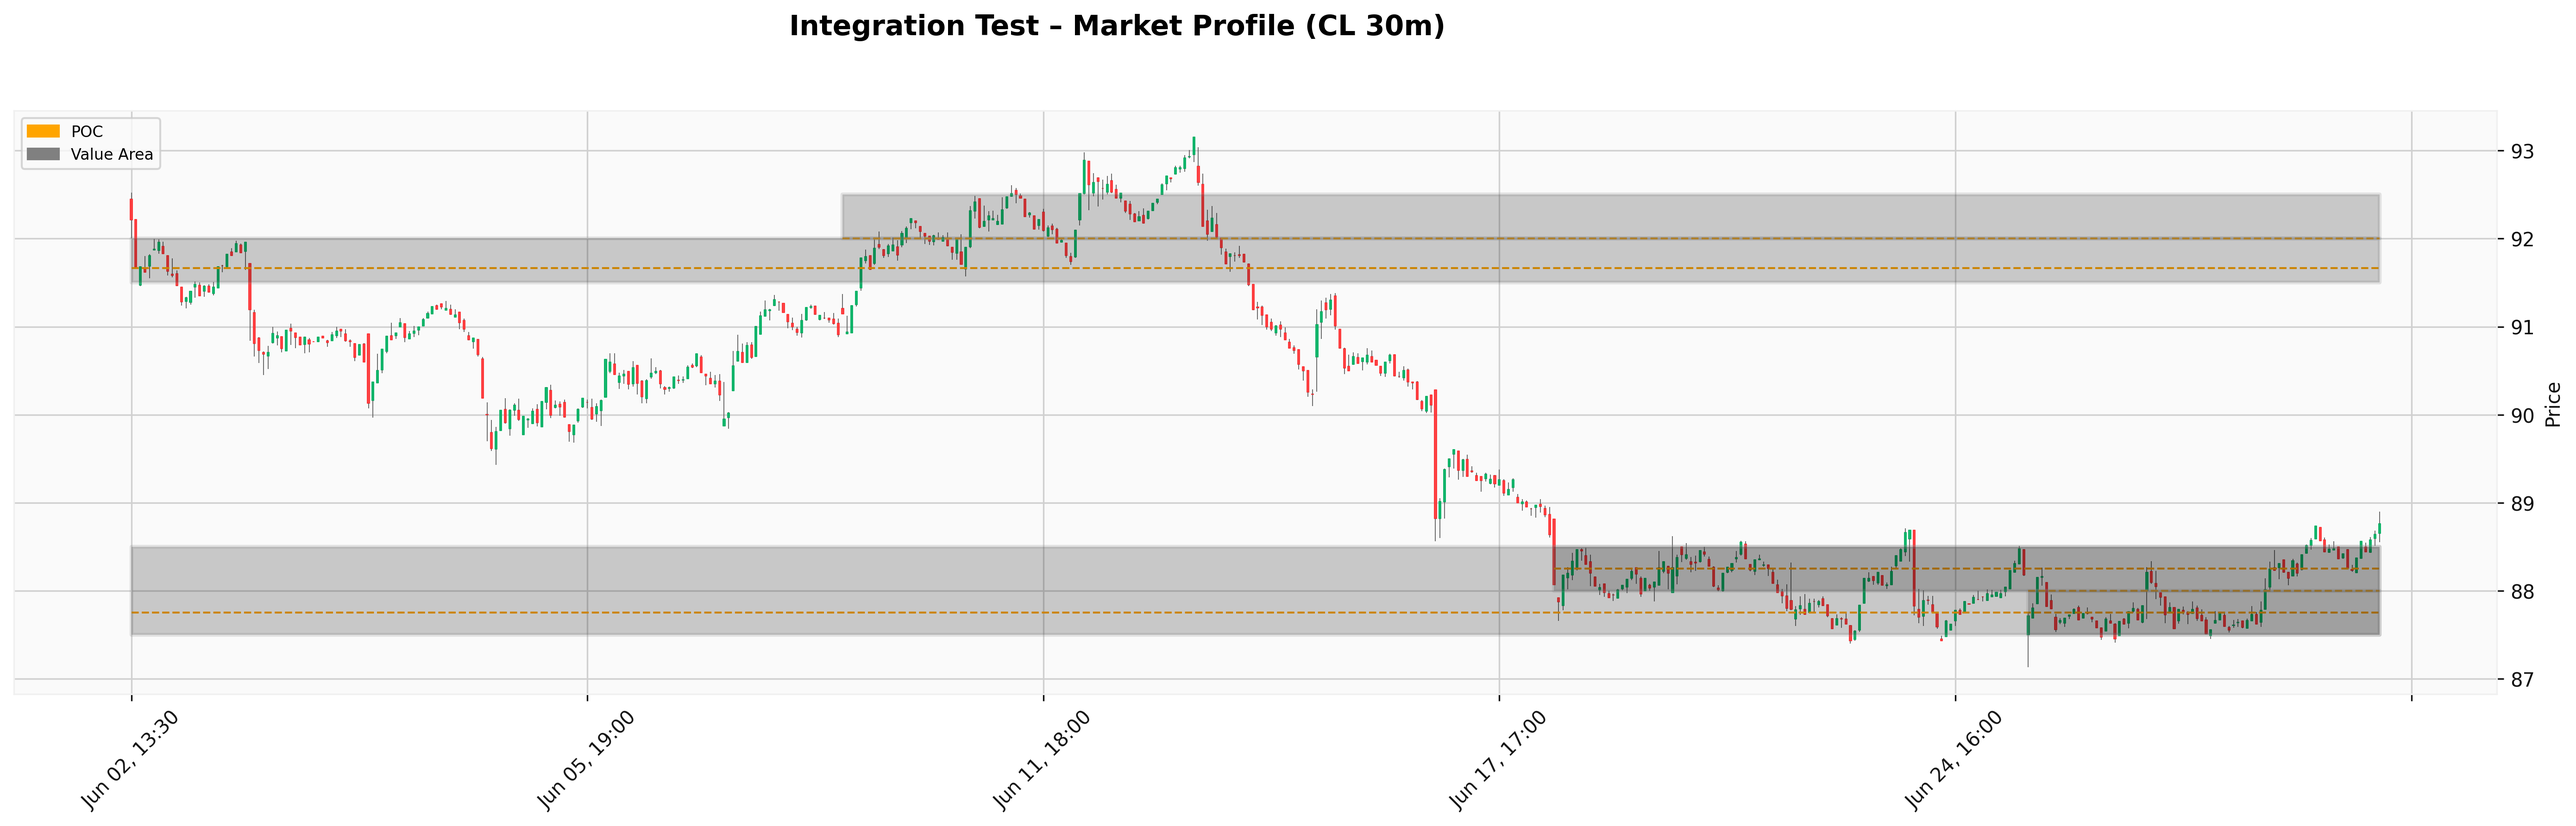
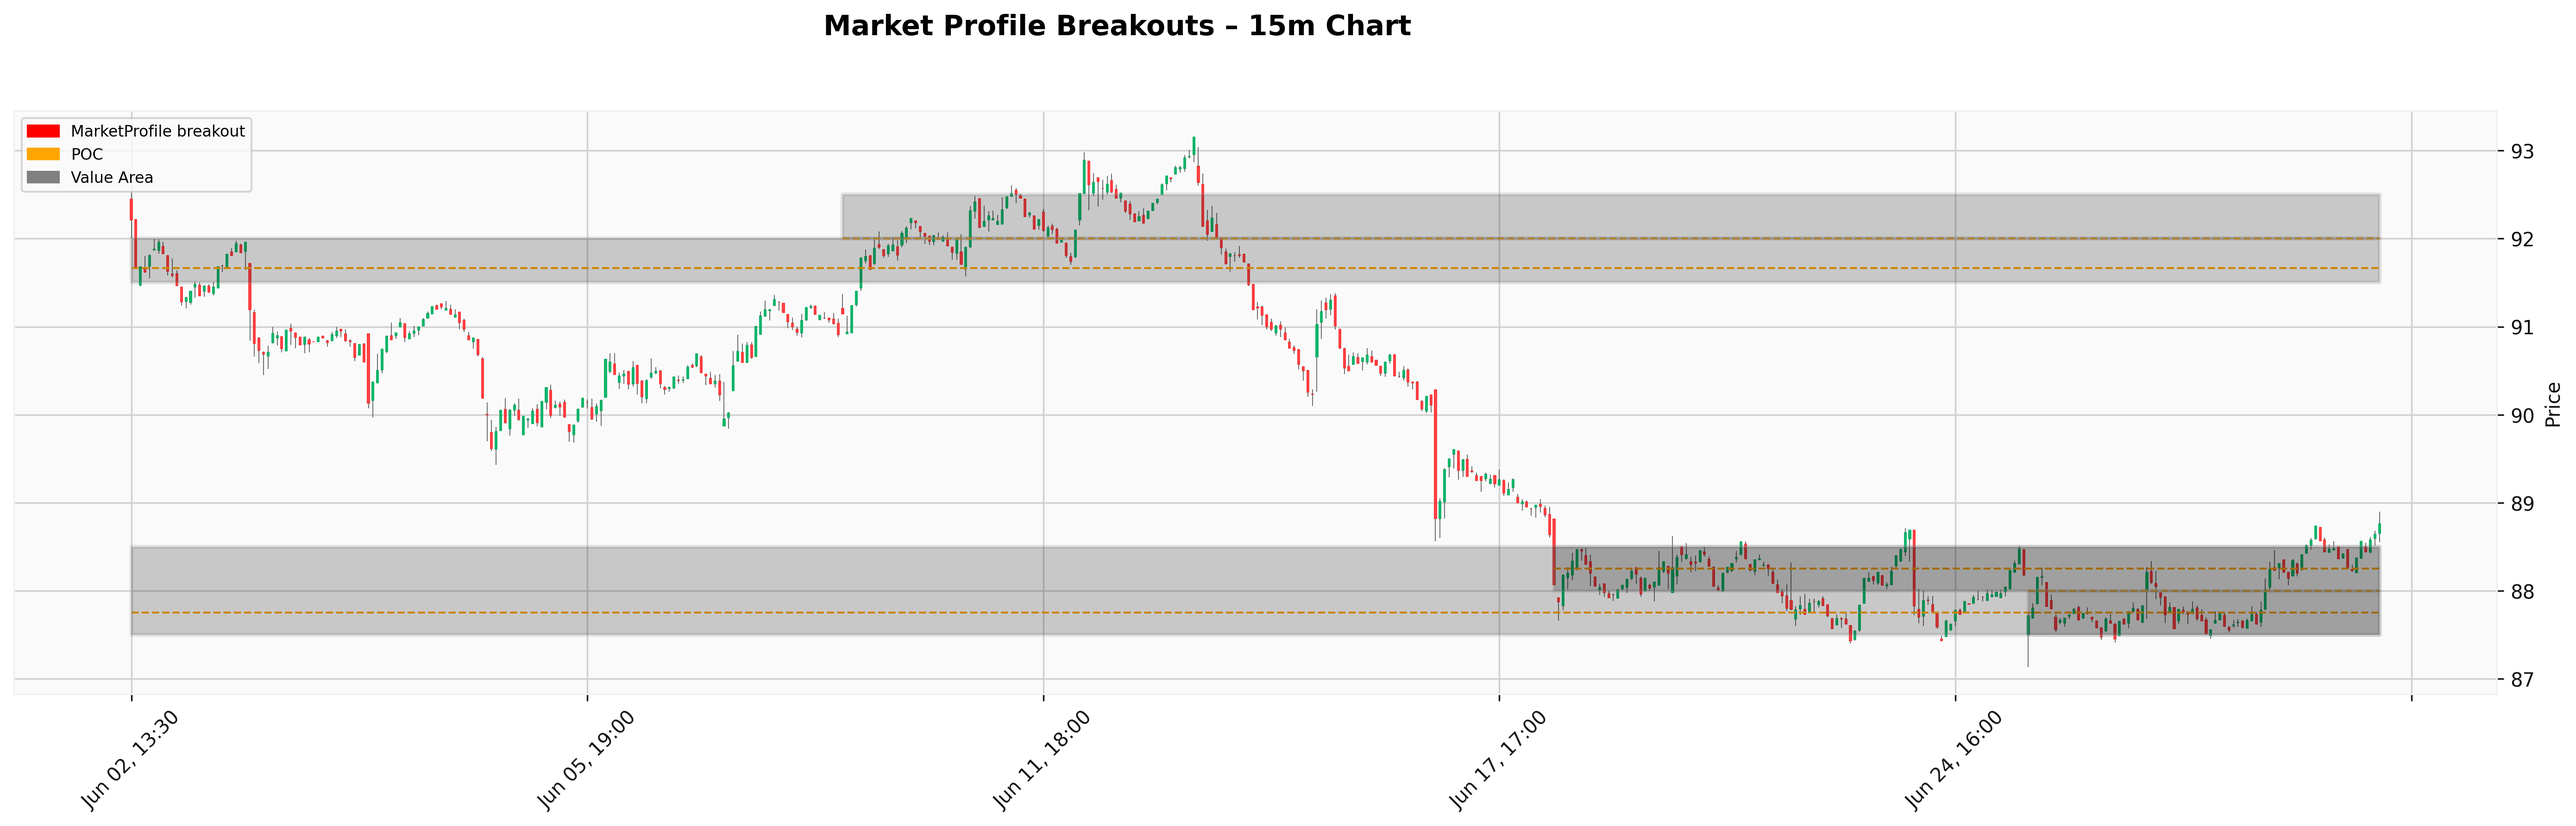
fixed plotting large gaps in price; NaN values in the plotting array

Changed region(s): [[0.311, 0.0, 0.5599, 0.0617], [0.0, 0.1541, 0.0933, 0.2466]]

diff --git a/classes/signals/market_profile_signal.py b/classes/signals/market_profile_signal.py
@@ -1,0 +1,135 @@
+# signals/market_profile_signal.py
+
+from typing import List, Dict
+import pandas as pd
+from datetime import datetime
+from .base import BaseSignal
+import logging
+
+logger = logging.getLogger("MarketProfileSignalGenerator")
+
+
+class MarketProfileSignalGenerator:
+    def __init__(self, symbol: str):
+        self.symbol = symbol
+
+    def generate_signals(
+        self,
+        price_df: pd.DataFrame,
+        value_areas: List[Dict]
+    ) -> List[BaseSignal]:
+        signals = []
+
+        for area in value_areas:
+            start, end = area["start"], area["end"]
+            VAL, VAH = area["VAL"], area["VAH"]
+
+            # Filter price data for the session window
+            session_df = price_df[(price_df.index >= start) & (price_df.index <= end)]
+
+            # Loop over the session candles
+            for i in range(1, len(session_df)):
+                prev_close = session_df.iloc[i - 1]["close"]
+                curr_close = session_df.iloc[i]["close"]
+                curr_time = session_df.index[i]
+
+                # Skip if previous candle was already outside VA
+                if not (VAL <= prev_close <= VAH):
+                    continue
+
+                # Breakout above VAH
+                if curr_close > VAH:
+                    distance_pct = (curr_close - VAH) / VAH
+                    signals.append(BaseSignal(
+                        type="breakout",
+                        symbol=self.symbol,
+                        time=curr_time,
+                        confidence=1.0,  # can improve this later
+                        metadata={
+                            "source": "MarketProfile",
+                            "level_type": "VAH",
+                            "distance_pct": round(distance_pct, 4),
+                            "session_start": start,
+                            "session_end": end,
+                            "VAL": VAL,
+                            "VAH": VAH,
+                            "POC": area.get("POC")
+                        }
+                    ))
+                    break  # only first breakout per session
+
+                # Breakout below VAL
+                elif curr_close < VAL:
+                    distance_pct = (VAL - curr_close) / VAL
+                    signals.append(BaseSignal(
+                        type="breakout",
+                        symbol=self.symbol,
+                        time=curr_time,
+                        confidence=1.0,
+                        metadata={
+                            "source": "MarketProfile",
+                            "level_type": "VAL",  # or "VAL"
+                            "distance_pct": round(distance_pct, 4),
+                            "session_start": start,
+                            "session_end": end,
+                            "VAL": VAL,
+                            "VAH": VAH,
+                            "POC": area.get("POC") 
+                        }
+                    ))
+
+                    break
+
+        return signals
+
+    @staticmethod
+    def to_overlays(signals: List["BaseSignal"], plot_df: pd.DataFrame, marker_size: int = 60) -> List[Dict]:
+        overlays = []
+        logger.info("Converting %d signals to overlays", len(signals))
+
+        for idx, sig in enumerate(signals):
+            if sig.metadata.get("source") != "MarketProfile":
+                logger.debug("Signal %d skipped: source=%s", idx, sig.metadata.get("source"))
+                continue
+
+            ts = sig.time
+            if ts not in plot_df.index:
+                nearest_idx = plot_df.index.get_indexer([ts], method="nearest")[0]
+                ts = plot_df.index[nearest_idx]
+                logger.debug("Signal %d: timestamp %s not in plot_df, using nearest %s", idx, sig.time, ts)
+
+            level_type = sig.metadata.get("level_type")
+            if level_type == "VAH":
+                y = sig.metadata.get("VAH")
+                marker = "v"
+                color = "green"
+            elif level_type == "VAL":
+                y = sig.metadata.get("VAL")
+                marker = "^"
+                color = "red"
+            else:
+                logger.warning("Signal %d: unknown level_type %s", idx, level_type)
+                continue
+
+
+            logger.debug(
+                "Signal %d: time=%s, y=%s, marker=%s, color=%s, label=%s",
+                idx, ts, y, marker, color, "MarketProfile breakout"
+            )
+            if y is None:
+                logger.warning("Signal %d: y-value is None for time=%s, level_type=%s", idx, ts, level_type)
+
+            overlays.append({
+                "x": [ts],
+                "y": [y],
+                "marker": marker,
+                "markersize": marker_size,
+                "color": color,
+                "label": "MarketProfile breakout",
+                "kind": "scatter",
+                "scatter": True,
+                "zorder": 5,
+            })
+
+        logger.info("Generated %d overlays from signals", len(overlays))
+        return overlays

diff --git a/main.py b/main.py
@@ -11,27 +11,30 @@ from classes.indicators.TrendlineIndicator import TrendlineIndicator
 from data_providers.alpaca_provider import AlpacaProvider
 from classes.indicators.config import DataContext
 
+from classes.signals.market_profile_signal import MarketProfileSignalGenerator
 
-symbol = "CL"
+symbol = "GC=F"
 provider = AlpacaProvider()
 
 lower_timespan_ctx = DataContext(
-    symbol="CL",
+    symbol=symbol,
     start="2025-06-01",
-    end="2025-06-30",
+    end="2025-07-13",
     interval="15m"
 )
 
 higher_timespan_ctx = DataContext(
-    symbol="CL",
+    symbol=symbol,
     start="2025-05-10",
     end="2025-07-12",
     interval="30m"
 )
 
-def get_overlays(plot_df: pd.DataFrame):
+
+def get_overlays_and_value_areas(plot_df: pd.DataFrame):
     logger.info("Creating MarketProfileIndicator with higher timeframe context: %s %s-%s (%s)", 
                 higher_timespan_ctx.symbol, higher_timespan_ctx.start, higher_timespan_ctx.end, higher_timespan_ctx.interval)
+    
     mpi = MarketProfileIndicator.from_context(
         provider=provider,
         ctx=higher_timespan_ctx,
@@ -39,14 +42,28 @@ def get_overlays(plot_df: pd.DataFrame):
         mode="tpo",
         interval="30m"
     )
+    
     logger.info("Merging value areas for MarketProfileIndicator")
     merged = mpi.merge_value_areas()
     logger.debug("Merged value areas count: %d", len(merged))
 
+    # Prepare value area schema for signal generator
+    value_areas = []
+    for va in merged:
+        value_areas.append({
+            "start": va["start_date"],
+            "end": va["end_date"],
+            "VAL": va["VAL"],
+            "VAH": va["VAH"],
+            "POC": va["POC"]
+        })
+
     overlays, legend_keys = mpi.to_overlays(plot_df, use_merged=True)
     logger.info("Generated overlays: %d, legend entries: %d", len(overlays), len(legend_keys))
     logger.debug("Overlay kinds: %s", [overlay.get("kind", "addplot") for overlay in overlays])
-    return overlays, legend_keys
+
+    return overlays, legend_keys, value_areas
+
 
 def show():
     logger.info("Fetching lower timeframe OHLCV data for plotting: %s %s-%s (%s)",
@@ -54,7 +71,7 @@ def show():
     plot_df = provider.get_ohlcv(lower_timespan_ctx)
     logger.info("Fetched plot DataFrame shape: %s", plot_df.shape if plot_df is not None else None)
 
-    overlays, legend_keys = get_overlays(plot_df)
+    overlays, legend_keys, value_areas = get_overlays_and_value_areas(plot_df)
 
     logger.info("Plotting chart with overlays and legend")
     provider.plot_ohlcv(
@@ -65,5 +82,31 @@ def show():
         show_volume=False
     )
     logger.info("Chart plotting complete.")
+
+    logger.info("Running MarketProfileSignalGenerator for symbol: %s", symbol)
+    signal_generator = MarketProfileSignalGenerator(symbol=symbol)
+    signals = signal_generator.generate_signals(plot_df, value_areas)
+
+    logger.info("Generated %d breakout signals", len(signals))
+    for sig in signals:
+        print(sig.to_dict())
+
+    signal_overlays = MarketProfileSignalGenerator.to_overlays(signals, plot_df)
+
+    full_overlays = overlays + signal_overlays
+    legend_keys.add(("MarketProfile breakout", "red"))
+
+    # full_legend_keys = legend_keys + ["MarketProfile breakout"]
+
+    logger.info("Plotting chart with breakout overlays")
+    provider.plot_ohlcv(
+        plot_ctx=lower_timespan_ctx,
+        title="Market Profile Breakouts – 15m Chart",
+        overlays=full_overlays,
+        legend_entries=legend_keys,
+        show_volume=False
+    )
+
+
 
 show()

diff --git a/classes/ChartPlotter.py b/classes/ChartPlotter.py
@@ -11,6 +11,7 @@ from classes.indicators.config import DataContext
 from itertools import groupby
 from classes.OverlayRegistry import get_overlay_handler
 import classes.OverlayHandlers
+import numpy as np
 
 
 class ChartPlotter:
@@ -80,6 +81,56 @@ class ChartPlotter:
 
             addplot_specs, other_specs = ChartPlotter._split_overlays(overlays)
             logger.debug("Addplot overlays: %d, Other overlays: %d", len(addplot_specs), len(other_specs))
+
+            # Final filter to remove overlays with zero-length y/data
+            cleaned_addplots = []
+            for i, spec in enumerate(addplot_specs):
+                label = spec.get("label", f"Overlay #{i}")
+                if spec.get("scatter", False):
+                    x = spec.get("x")
+                    y = spec.get("y")
+
+                    if y is None or x is None:
+                        logger.warning("Skipping scatter (%s) with missing x/y: %s", label, str(spec)[:150])
+                        continue
+                    if len(x) == 0 or len(y) == 0:
+                        logger.warning("Skipping scatter (%s) with empty x/y: x=%d, y=%d, spec=%s", label, len(x), len(y), str(spec)[:150])
+                        continue
+                else:
+                    data = spec.get("data")
+
+                    if data is None:
+                        logger.warning("Skipping line (%s) with missing data.", label)
+                        continue
+
+                    if isinstance(data, pd.Series):
+                        if data.empty:
+                            logger.warning("Skipping line (%s): Series is empty.", label)
+                            continue
+                        if data.isna().all():
+                            logger.warning("Skipping line (%s): Series is all NaN.", label)
+                            continue
+
+                    elif isinstance(data, (list, np.ndarray)):
+                        if len(data) == 0:
+                            logger.warning("Skipping line (%s): empty array.", label)
+                            continue
+                        if all(pd.isna(v) for v in data):
+                            logger.warning("Skipping line (%s): array is all NaN.", label)
+                            continue
+
+                cleaned_addplots.append(spec)
+
+            logger.info("Final cleaned addplot overlays: %d", len(cleaned_addplots))
+            addplot_specs = cleaned_addplots
+            for i, spec in enumerate(addplot_specs):
+                label = spec.get("label", f"Overlay #{i}")
+                if not spec.get("scatter", False):
+                    data = spec.get("data")
+                    if isinstance(data, pd.Series):
+                        logger.debug("Line overlay %s head:\n%s", label, data.head(3))
+                        logger.debug("Line overlay %s stats: len=%d, nulls=%d, isna.all=%s", 
+                                    label, len(data), data.isna().sum(), data.isna().all())
 
             fig, axes = mpf.plot(
                 df,

diff --git a/classes/OverlayHandlers.py b/classes/OverlayHandlers.py
@@ -12,6 +12,20 @@ def handle_addplot(df, price_ax, specs):
     logger.debug("Handling addplot overlays: count=%d", len(specs))
     return specs
 
+@register_overlay_handler("line")
+def handle_line(df, price_ax, specs):
+    logger.info("Handling line overlays: count=%d", len(specs))
+    logger.debug("Axis limits before overlays: xlim=%s, ylim=%s", price_ax.get_xlim(), price_ax.get_ylim())
+    
+    return specs
+
+@register_overlay_handler("scatter")
+def handle_scatter(df, price_ax, specs):
+    logger.info("Handling scatter overlays: count=%d", len(specs))
+    logger.debug("Axis limits before overlays: xlim=%s, ylim=%s", price_ax.get_xlim(), price_ax.get_ylim())
+    
+    return specs
+
 @register_overlay_handler("rect")
 def handle_rectangle(df, price_ax, specs):
     logger.info("Handling rectangle overlays: count=%d", len(specs))

diff --git a/classes/signals/base.py b/classes/signals/base.py
@@ -1,0 +1,22 @@
+# signals/base.py
+
+from dataclasses import dataclass, field
+from typing import Dict, Any
+from datetime import datetime
+
+@dataclass
+class BaseSignal:
+    type: str                 # e.g. "breakout", "retest", etc.
+    symbol: str               # e.g. "CL", "XAUUSD"
+    time: datetime            # timestamp of the signal
+    confidence: float         # 0.0 to 1.0
+    metadata: Dict[str, Any]  # flexible structure for indicator-specific fields
+
+    def to_dict(self):
+        return {
+            "type": self.type,
+            "symbol": self.symbol,
+            "time": self.time.isoformat(),
+            "confidence": self.confidence,
+            "metadata": self.metadata
+        }
